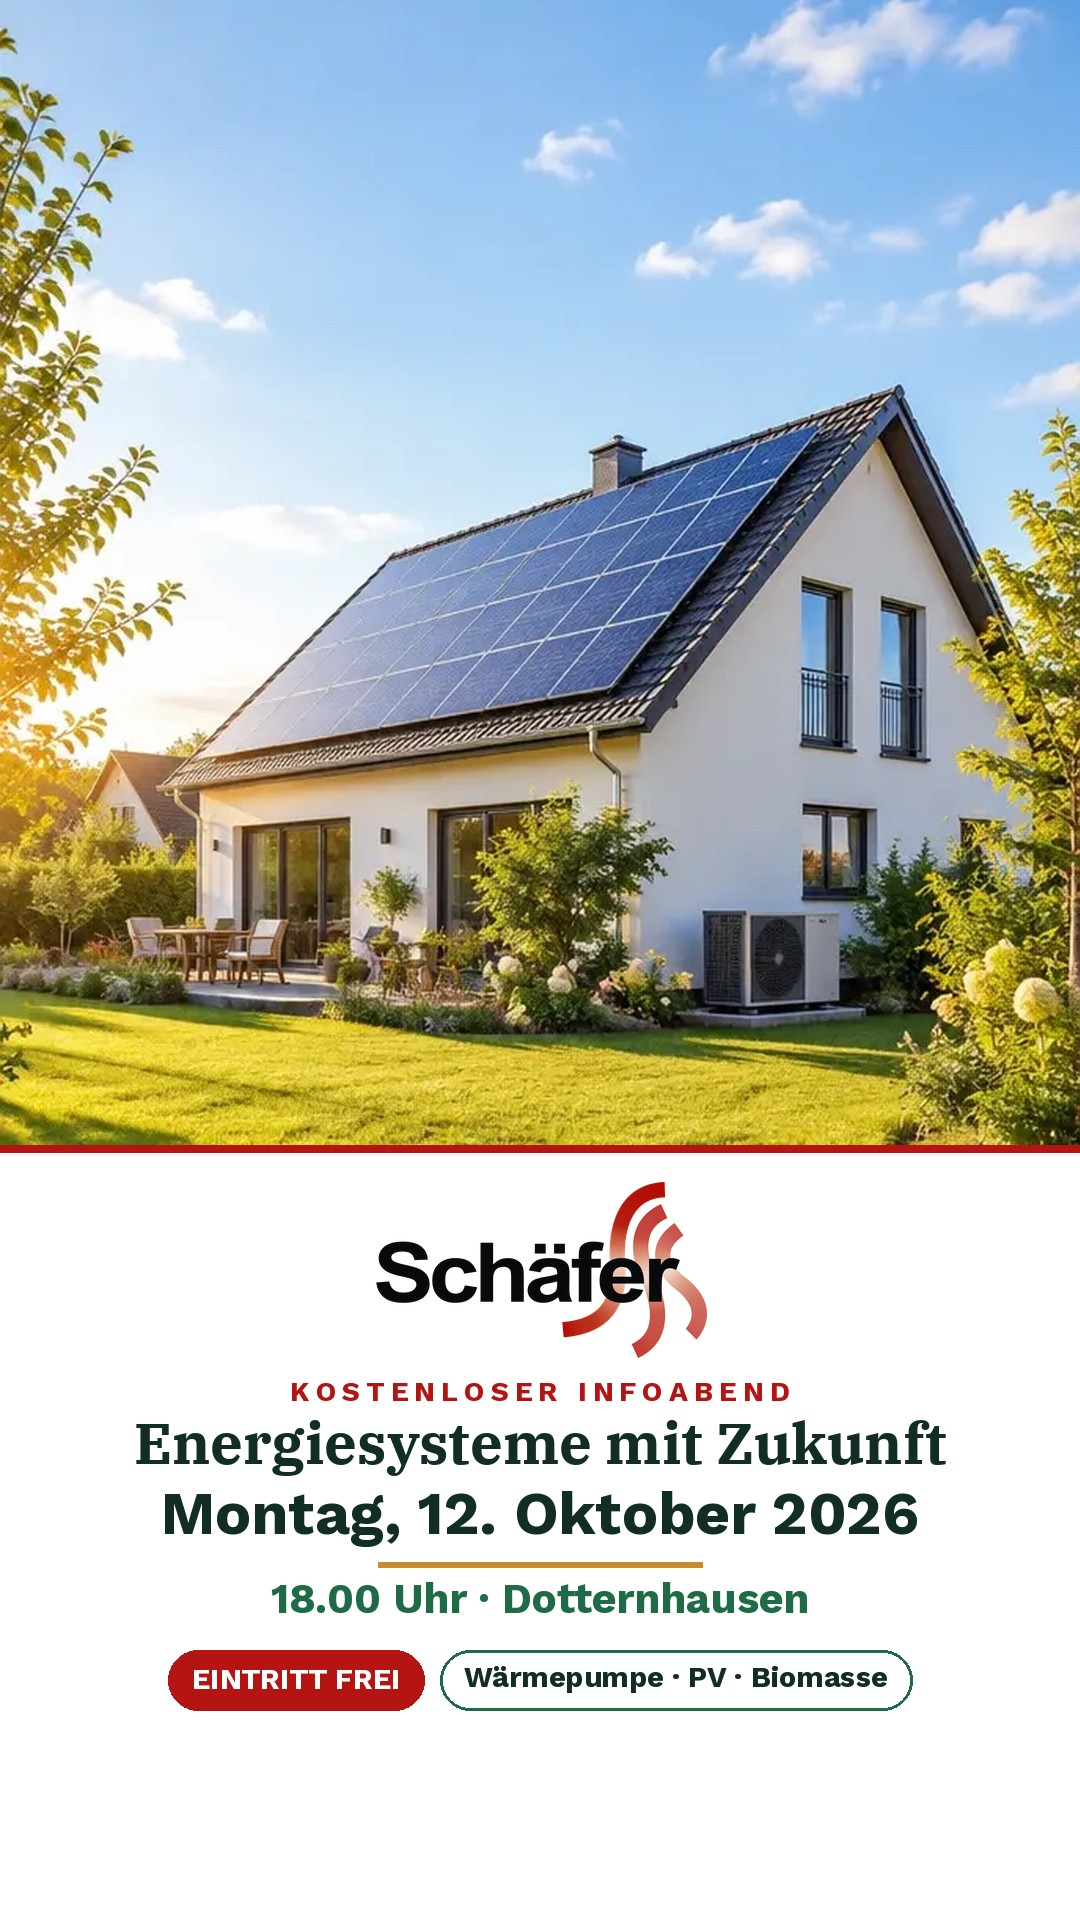
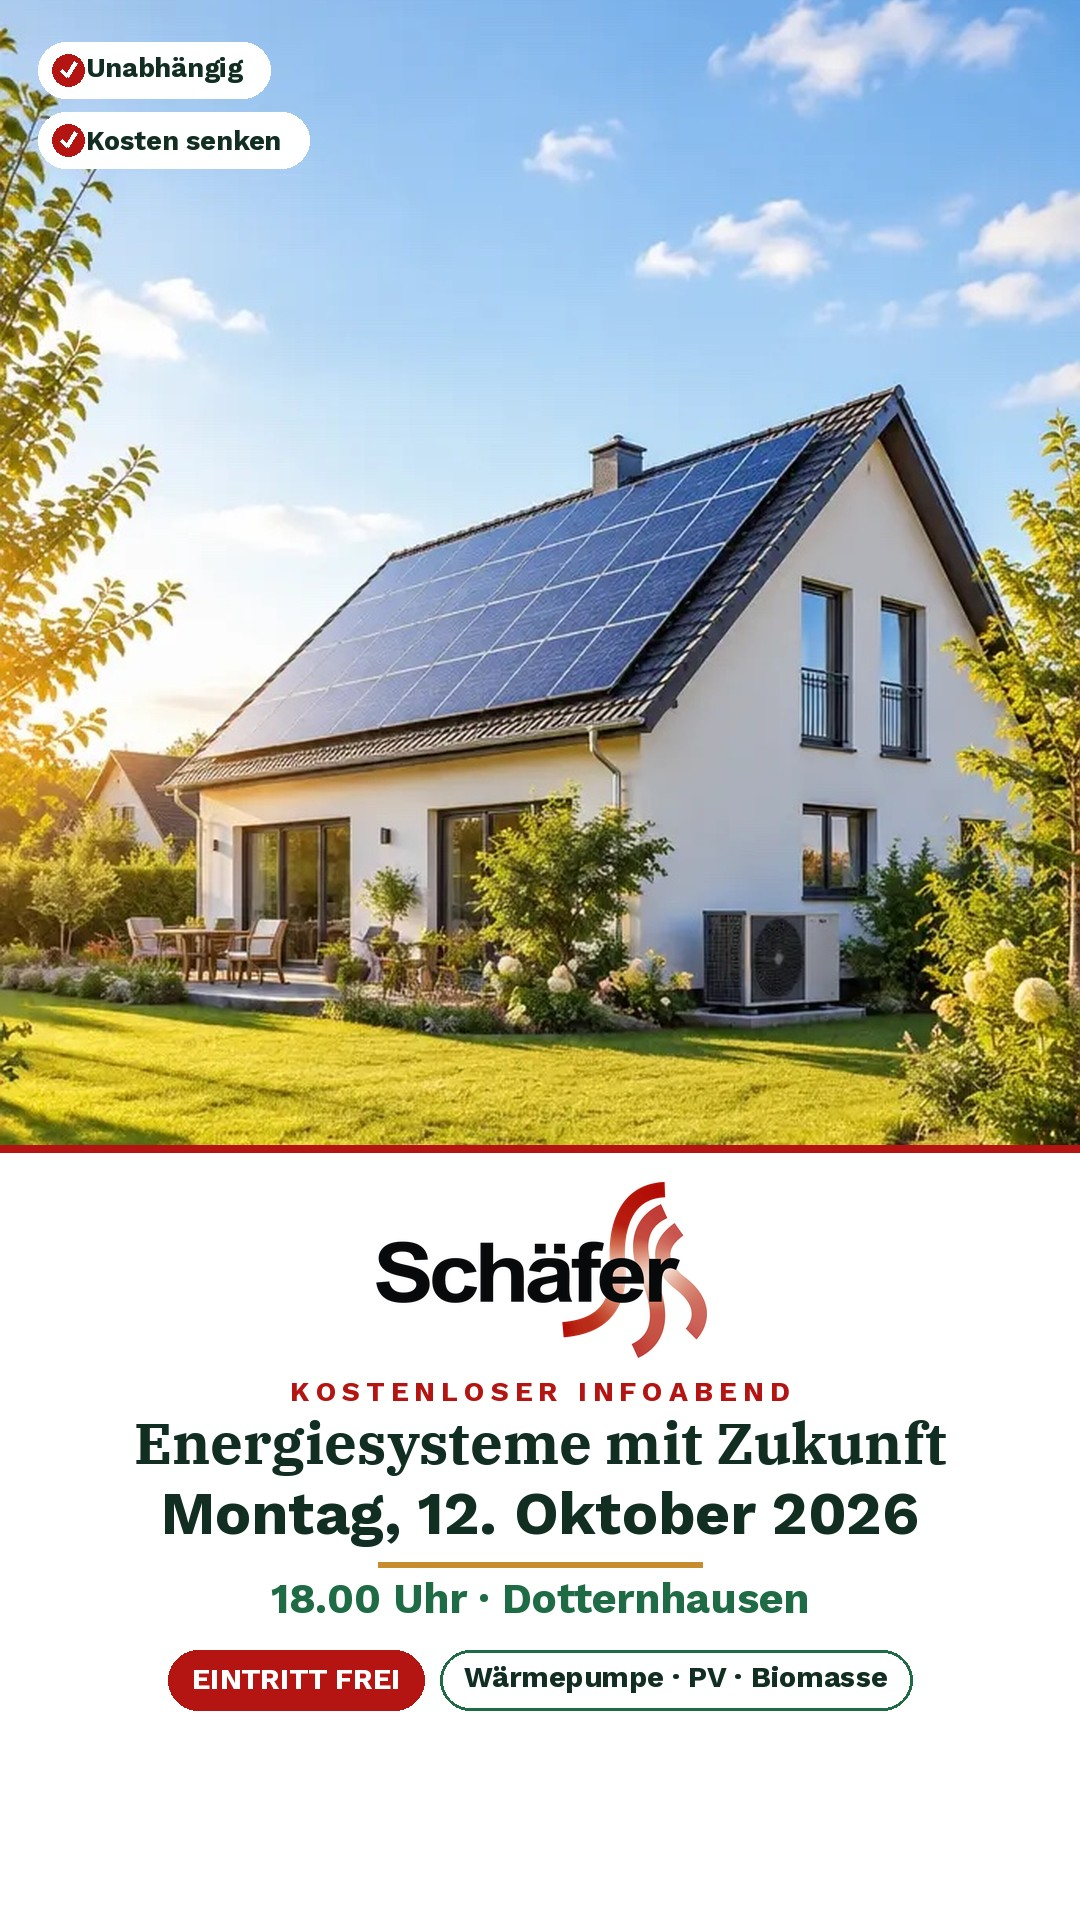
Event-Creative: Schlagwort-Badges (Unabhaengig / Kosten senken) aufs Foto
Claude-Session: https://claude.ai/code/session_0195Z1PjpkPHucqAk5ooUwCA

Changed region(s): [[0.0306, 0.0, 0.3056, 0.0938]]

diff --git a/tools_overlay_event.py b/tools_overlay_event.py
@@ -42,6 +42,19 @@ def make(size,frac,out):
     canvas=Image.new("RGB",(W,H),PANEL);
     canvas.paste(cover(Image.open(SRC).convert("RGB"),W,ph),(0,0))
     d=ImageDraw.Draw(canvas)
+    # Schlagwort-Badges oben links auf dem Foto
+    def badge(x,y,text):
+        bf=ImageFont.truetype(SANS,int(27*u)); tw=d.textlength(text,font=bf)
+        chk=int(48*u); pw=chk+tw+int(28*u); bh=int(56*u)
+        d.rounded_rectangle([x,y,x+pw,y+bh],radius=bh//2,fill=(255,255,255))
+        cxc=x+int(30*u); cyc=y+bh//2; r=int(16*u)
+        d.ellipse([cxc-r,cyc-r,cxc+r,cyc+r],fill=RED)
+        d.line([(cxc-int(7*u),cyc),(cxc-int(1*u),cyc+int(6*u)),(cxc+int(8*u),cyc-int(8*u))],fill=(255,255,255),width=max(2,int(4*u)),joint="curve")
+        bb=d.textbbox((0,0),text,font=bf); d.text((x+chk,cyc-(bb[3]-bb[1])/2-bb[1]),text,font=bf,fill=INK)
+        return bh
+    bx=int(38*u); by=int(42*u)
+    h1=badge(bx,by,"Unabhängig")
+    badge(bx,by+h1+int(14*u),"Kosten senken")
     # Markenkante an der Naht
     d.rectangle([0,ph-max(4,int(7*u)),W,ph],fill=RED)
     cx=W//2; y=ph+int(30*u)
